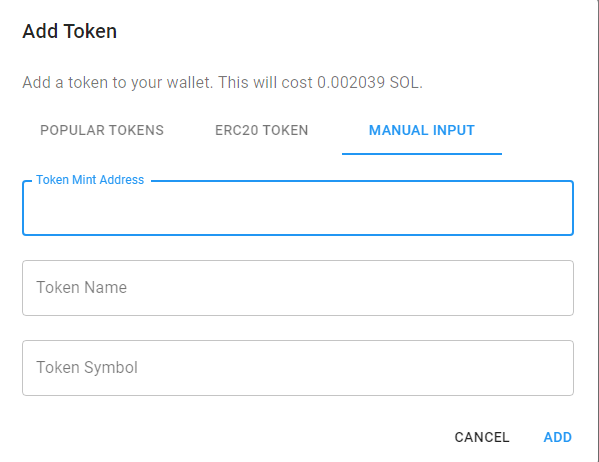
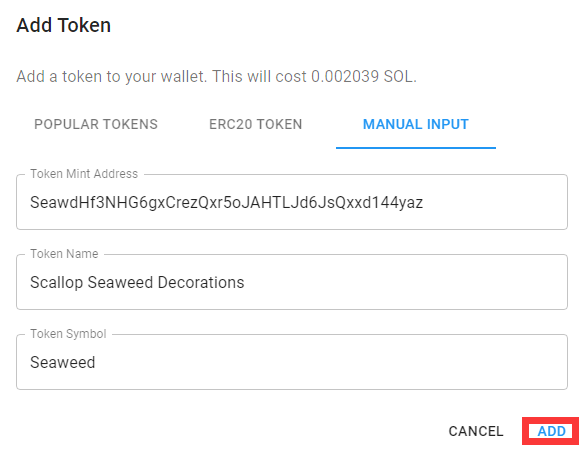
GitBook: [master] one page and 7 assets modified

diff --git a/other/create-a-sca-address.md b/other/create-a-sca-address.md
@@ -14,7 +14,7 @@ Your wallet will need about less than 0.005 SOL to create the token address.
 
 Click the + button \("Add Token"\).
 
-![](../.gitbook/assets/image%20%286%29.png)
+![](../.gitbook/assets/image%20%287%29.png)
 
 
 
@@ -30,11 +30,11 @@ Enter the token details \(here we use Seaweed\):
 
 Click "ADD". When the transaction is confirmed, you will see your Seaweed address in Sollet.
 
-![](../.gitbook/assets/image%20%283%29.png)
-
-
+![](../.gitbook/assets/image%20%284%29.png)
 
 {% hint style="success" %}
 You have successfully created a token address!
 {% endhint %}
+
+![](../.gitbook/assets/image%20%283%29.png)
 
